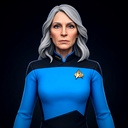
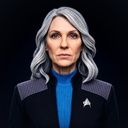
v6.2: 4 unified uniforms live + Jason's drydock shipyard bg

diff --git a/index.html b/index.html
@@ -533,7 +533,7 @@ body{touch-action:pan-y;}
 /* Shipyard backdrop for build-page ships (explicit uwShipyard class from shipPic opts.bees;
    sits behind the ship; the CSS starfield is hidden to avoid double stars — the art has its own). */
 .uwWrap.uwShipyard{
-  background-image:url('stations/shipyard-bg.jpg?v=v6.1');
+  background-image:url('stations/shipyard-bg.jpg?v=v6.2');
   background-size:cover;
   background-position:center;
 }
@@ -903,7 +903,7 @@ label{font-size:13px;color:var(--dim);letter-spacing:1px;text-transform:uppercas
    chokepoints: portraitSrc, crewPoolUrls, crewPortraitFor, shipPic,
    compArtFor, stationPic, stationMapIcon, shuttlePic. Idempotent: a URL
    already carrying the current bust marker is returned untouched. ---- */
-const ART_BUST='v6.1';
+const ART_BUST='v6.2';
 function bustUrl(u){if(!u||u.indexOf('data:')===0||u.indexOf('v='+ART_BUST)>=0)return u;return u+(u.indexOf('?')>=0?'&':'?')+'v='+ART_BUST;}
 function $(id){return document.getElementById(id);}
 function rnd(a,b){return a+Math.random()*(b-a);}
@@ -16485,7 +16485,7 @@ window.onload=function(){
 <aside id="menuDrawer">
   <div id="drawerHead"><h2>Menu</h2><button id="drawerClose" onclick="closeTabMenu()" aria-label="Close menu">&times;</button></div>
   <div id="menuList"></div>
-  <div style="text-align:center;color:#5a6b7d;font-size:11px;padding:14px 0 8px;opacity:.7;">v6.1 — The Stylized Fleet</div>
+  <div style="text-align:center;color:#5a6b7d;font-size:11px;padding:14px 0 8px;opacity:.7;">v6.2 — The Stylized Fleet</div>
   <div style="text-align:center;color:#5a6b7d;font-size:11px;padding:0 0 10px;opacity:.7;">Ship &amp; shuttlecraft profile artwork: <a href="https://www.ex-astris-scientia.org/fleet-charts.htm" target="_blank" style="color:#7d92ad;text-decoration:none;">Ex Astris Scientia</a></div>
 </aside>
 <script>if("serviceWorker" in navigator){navigator.serviceWorker.register("sw.js").then(function(r){r.addEventListener("updatefound",function(){var w=r.installing;w.addEventListener("statechange",function(){if(w.state==="activated"&&navigator.serviceWorker.controller){try{showUpdateBanner();}catch(e){}}});});});}</script>

diff --git a/sw.js b/sw.js
@@ -1,4 +1,4 @@
-const C = 'stfc-v6.1';
+const C = 'stfc-v6.2';
 self.addEventListener('install', e => {
   e.waitUntil(caches.open(C).then(c => c.addAll(['./', 'index.html', 'manifest.json'])).then(() => self.skipWaiting()));
 });
